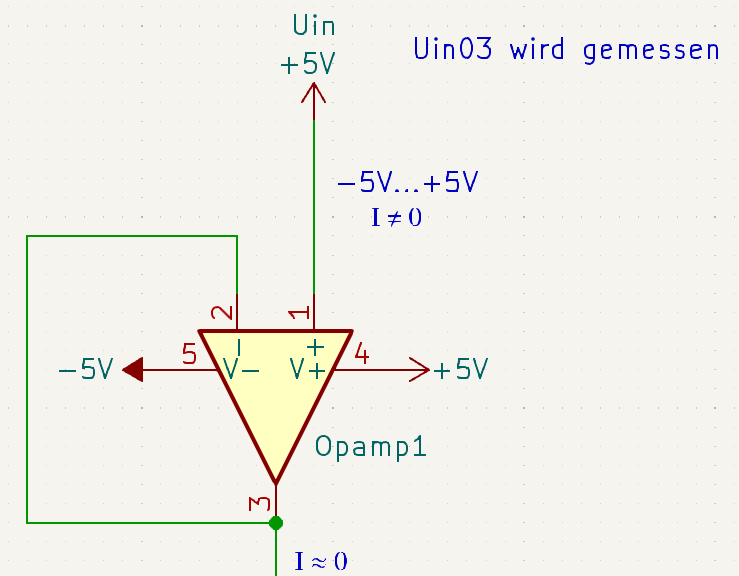
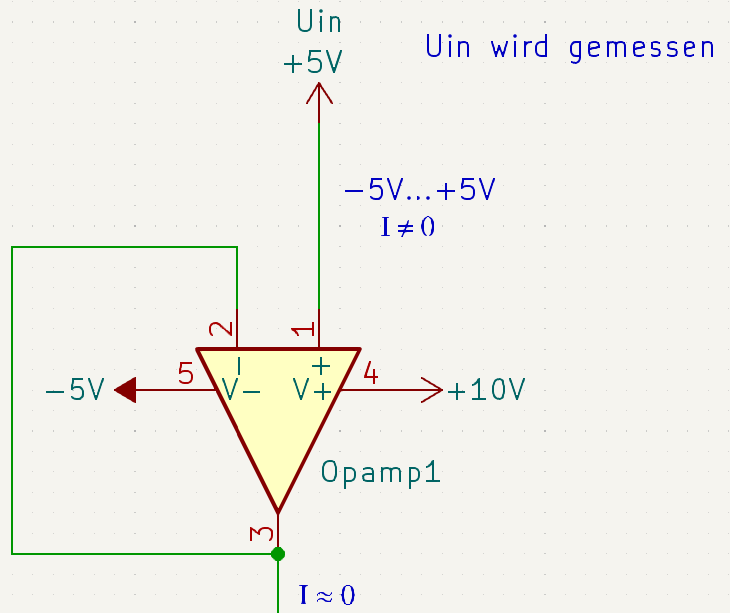
Kapitel 2,3 grob fertig, Anhang besser, Kapitel 4 fertig fast

Changed region(s): [[0.0, 0.0, 0.7233, 1.0], [0.5726, 0.0625, 0.9945, 0.125]]

diff --git a/sections/3-InputBereinigen.tex b/sections/3-InputBereinigen.tex
@@ -5,18 +5,18 @@
 %% also reasoning for choosing those specific
 %% values of resistor, power supply, etc.
 Der GPIO Pin aus \ref{Mikrocontroller}, an dem die Spannung mithilfe eines Mikrocontrollers gemessen wird,
-kann nur Spannung im Bereich $[0, 3.6]V$ messen.
-Das Oszilloskop soll allerdings einen größeren Spannungsbereich $[-15, 15]V$ messen können.
-Folglich muss man diese Eingangsspannung für den GPIO Pin bereinigen.
+kann nur Spannung im Bereich $[0, 3.3]V$ messen.
+Das Oszilloskop soll allerdings einen größeren Spannungsbereich $[-5, 5]V$ messen können.
+Daher wird nun diese Eingangsspannung für den GPIO Pin bereinigt.
 
 \subsection{Unbelastete Eingangsspannung}
 \label{Unbelastete Eingangsspannung}
-Damit der Stromkreis, der gemessen wird, nicht belastet wird, wird ein Opamp mit hoher Eingangsimpedanz
-und mit Verstärkungsfaktor $1$ benutzt.
-Der Schaltplan sieht folgendermaßen aus:
+Der Stromkreis, der gemessen wird, soll nicht belastet werden, daher wird ein Opamp mit
+hoher Eingangsimpedanz und einem Verstärkungsfaktor von $1$ benutzt.
+Dies wird durch eine Rückkopplung des Ausgangs an den invertierten Eingang des Opamps erreicht
 \begin{figure}[h]
 	\centering
-	\includegraphics[width=\textwidth]{images/unbelastet2\_opamp1.png}
+	\includegraphics[width=0.5\textwidth]{images/unbelastet2\_opamp1.png}
 	\caption{Schaltplan um den Eingangsstrom nicht zu belasten}
 \end{figure}
 
@@ -24,5 +24,48 @@ Der Schaltplan sieht folgendermaßen aus:
 \subsection{Addition einer Offset-Spannung}
 \label{Addition einer Offset-Spannung}
 
+Nun gilt es den Spannungsbereich von $[-5, 5]V$ auf $[0, 10]V$ zu legen, um die negative Spannung
+"`zu eliminieren"'. Dazu wird eine Offset-Spannung $U_{offset}$, die aus einer $3.7V$ Batterie stammt
+und mithilfe des Stepup Converter auf $5V$ gebracht wird, dazu addiert.
+Dies geschieht mit einem Nicht-invertierten Summierverstärkers, also ein Opamp der extern mit
+Spannungsteilern beschalten ist. 
+Der Opamp funktioniert, solange die Ausgangsspannung innerhalb des Bereichs der Versorgungsspannung,
+also $[-5, 10]V$, liegt. Für die maximale Eingangsspannung gilt $\max(U_{in}) + U_{offset} = 5V + 5V = 10V$
+und für die minimale gilt $\min(U_{in}) + U_{offset} = -5V + 5V = 0V$, der Opamp funktioniert also für
+die definierte Eingangs- und Offsetspannung.
+\newline
+Der Spannungsteiler $(R_1, R_2)$ teilt die Spannungen $U_{in}$ und $U_{offset}$ zu einer
+Spannung $U_{R_1, R_2} = \frac{U_{in} + U_{offset}}{2}$, welche in den Nicht-invertierten Eingang
+von \textit{Opamp2} kommt. \newline
+Es gilt, laut \cite{Opamp_adder}, für die Ausgangsspannung $U_3$ des Opamps:
+\begin{align*}
+U_3 &= (U_{in} \cdot \frac{R_2}{R_1 + R_2} + U_{offset} \cdot \frac{R_1}{R_1 + R_2}) \cdot(1 + \frac{R_4}{R_3}) \\
+	&= (U_{in} \cdot \frac{1}{2} + U_{offset} \cdot \frac{1}{2}) \cdot 2 \\
+	&= U_{in} + U_{offset}
+\end{align*}
+
+\begin{figure}[h!]
+	\centering
+	\includegraphics[width=0.5\textwidth]{images/schematic\_adder.png}
+	\caption{Addition von Eingangsspannung $U_{in}$ und Offsetspannung $U_{offset}$}
+\end{figure}
+
 \subsection{Spannungsteiler}
 \label{Spannungsteiler}
+
+Zuletzt wird die Spannung $U_3$, welche aus \textit{Opamp2} gegeben wird, geteilt, sodass
+sie im Bereich $[0, 3.3]V$ für den GPIO Pin liegt.
+Der Spannungsteiler $(R_5, R_6)$ teilt dabei $U_3$ zu
+$U_{GPIO} = \frac{U_3 \cdot R_6}{R_5 + R_6} = U_3 \cdot \frac{100 \Omega}{330 \Omega}$. \newline
+Dadurch ergibt sich ein Spannungsbereich für $U_{GPIO}$ von
+$[0, 10 \cdot \frac{100}{330}]V = [0, 3.3]V$.
+\begin{figure}[h!]
+	\centering
+	\includegraphics[width=0.5\textwidth]{images/schematic_spannungsteiler.png}
+	\caption{Spannungsteiler zu $U_{GPIO}$}
+\end{figure}
+\newline
+Die bereinigte Spannung $U_{GPIO}$ wird nun an den GPIO Pin des Mikrocontrollers angeschlossen.
+
+
+

diff --git a/sections/2-Vorraussetzungen.tex b/sections/2-Vorraussetzungen.tex
@@ -6,17 +6,15 @@
 
 \subsection{Geräte}
 
-
-
-
-\subsection{Zusammenspiel}
-
-Alle Geräte zusammen als Schaltplan ist in \nameref{Schematic_all} im Anhang zu finden.
-
-
-Oszilloskop Eingang ist $U_{in}$ und der Ground $0$. \newline
-Für die Messung, muss das Oszilloskop zur gemessenen Spannung parallel geschalten werden,
-damit die Spannung am Oszilloskop die gleiche ist, wie die am gemessenen Stromkreis.
+Das Herzstück des Oszilloskops bildet ein Mikrocontroller, dieser ist in \ref{Mikrocontroller} näher
+erläutert.
+Der Mikrocontroller kann von sich aus nur Spannungen im Bereich $[0, 3.3]V$ messen.
+Damit das Oszilloskop aber einen etwas größeren Spannungsbereich messen kann, werden außerdem
+zwei Opamps mit einem Eingangsspannungsbereich von $16V$, beispielsweise der \textit{TS912IN},
+benötigt und vor den Mikrocontroller geschalten \cite{Opamp_Datasheet}.
+Ferner werden einige Widerstände benötigt, die als Spannungsteiler fungieren.
+Der gesamte Schaltplan ist unter \ref{Gesamte_Schematic} im Anhang zu finden.
+Der Oszilloskop Messeingang wird $U_{in}$ und Ground $0$ genannt.
 
 \subsubsection{Idee}
 Das Oszilloskop besteht im groben aus zwei Bereichen.
@@ -24,26 +22,25 @@ Zum einen wird die Eingangsspannung bereinigt, erläutert in \ref{Eingangsspannu
 damit sie dem Spannungsbereich am GPIO Pin genügt.
 Zum anderen übernimmt ein Mikrocontroller, in \ref{Mikrocontroller} beschrieben,
 die tatsächliche Messung und Darstellung der Spannungswerte. \newline
-Die Eingangsspannung $U_{in}$ liegt im Intervall $[-15, 15] V$,
-der GPIO Pin des Mikrocontrollers erlaubt allerdings nur $[0, 3.6] V$. \newline
+Die Eingangsspannung $U_{in}$ liegt im Intervall $[-5, 5] V$,
+der GPIO Pin des Mikrocontrollers erlaubt allerdings nur $[0, 3.3] V$. \newline
 Folglich muss die Eingangsspannung dahingehend bereinigt werden.
 \newline \newline
 Hierfür bringen wir die Eingangsspannung erstmal in den positiven Bereich, indem wir
-eine Offset Spannung $U_{offset} = 15V$, mithilfe eines Nicht-invertierten Summierverstärkers,
+eine Offset Spannung $U_{offset} = 5V$, mithilfe eines Nicht-invertierten Summierverstärkers,
 erläutert in \ref{Addition einer Offset-Spannung}, dazu addieren. \newline
-Der Spannungsbereich ändert sich dadurch zu $[0, 30] V$.
+Der Spannungsbereich ändert sich dadurch zu $[0, 10] V$.
 Dieser muss nun lediglich, mithilfe eines Spannungsteilers, siehe \ref{Spannungsteiler},
-zu $[0, 3.6] V$ aufgeteilt werden.
-Damit der gemessene Stromkreis durch das Oszilloskop nicht belastet wird,
+zu $[0, 3.3] V$ aufgeteilt werden.
+Damit der gemessene Stromkreis durch das Oszilloskop nicht belastet und verändert wird,
 muss noch ein Bauteil mit einer hohen Eingangsimpedanz, erläutert in \ref{Unbelastete Eingangsspannung},
 vor das ganze Netzwerk geschalten werden.
 
 
 \subsubsection{Stromversorgung}
 Der Mikrocontroller wird über Micro-USB mit $5V$ versorgt.
-Die beiden Opamps werden durch eine Batterie mithilfe von Stepup Convertern versorgt.
-
-Später werden die einzelnen Schritte ausführlicher erläutert und begründet.
+Die beiden Opamps bekommen durch eine Batterie und mithilfe von den Stepup Convertern \textit{MT3608}
+eine Versorgungsspannung von $V^{+}_{CC} = 10V$ und $V^{-}_{CC} = -5V$.
 
 
 

diff --git a/Oszilloskop.tex b/Oszilloskop.tex
@@ -1,5 +1,4 @@
 \documentclass[a4paper,11pt,titlepage]{article}
-%\documentclass[a4paper,11pt,smallheadings,headsepline,titlepage,liststotoc,idxtotoc,bibtotoc,bibliography=totocnumbered]{scrartcl}
 \usepackage[ngerman]{babel}
 \usepackage{hyperref}
 \usepackage{amsmath}
@@ -9,7 +8,12 @@
 \usepackage[nottoc]{tocbibind} % for adding Bibliography to table of contents
 \usepackage{nameref}
 \usepackage{siunitx}
+\usepackage{enumitem}
+\usepackage{caption}
+\usepackage{adjustbox}
 
+% Seitenränder
+\usepackage[paper=a4paper,left=30mm,right=30mm,top=25mm,bottom=20mm]{geometry}
 \usepackage[explicit]{titlesec}
 %\usepackage[explicit]{titlesec}
 % Raised Rule Command:
@@ -17,8 +21,12 @@
 % Arg 2 - Thickness of the rule
 \newcommand{\raisedrulefill}[2][0ex]{\leaders\hbox{\rule[#1]{1pt}{#2}}\hfill}
 % hline next to section title
-\titleformat{\section}{\Large\bfseries}{\thesection }{0em}
-{\hspace{0.5em}#1\,\raisedrulefill[0.4ex]{2pt}}
+\titleformat{\section}{\Large\bfseries\sffamily}{\thesection}{0.5em}
+{#1\,\raisedrulefill[0.4ex]{2pt}}
+% subsection change font and make bold
+\titleformat{\subsection}{\large\bfseries\sffamily}{\thesubsection}{0.5em}{#1}
+% subsubsection change font and make bold
+\titleformat{\subsubsection}{\bfseries\sffamily}{\thesubsubsection}{0.5em}{#1}
 
 %opening
 %\title{Oszilloskop mittels Mikrocontroller}
@@ -29,45 +37,6 @@
 
 \include{sections/0-Titelseite.tex}
 
-% title page
-%\begin{titlepage}
-%	\begin{center}
-%    \vspace*{1cm}
-%
-%	% description
-%	\Large
-%    Seminararbeit im Bachelor-Studiengang \\
-%	Informatik
-%	\vspace{1cm}
-%
-%
-%	% title
-%	\huge
-%    \textbf{Oszilloskop mittels Mikrocontroller}
-%
-%    %\vspace{0.5cm}
-%    %Thesis Subtitle
-%
-%    \vspace{2.5cm}
-%
-%	%author
-%	\LARGE
-%   \textbf{Len-Marvin Adler, Deniz}
-%
-%    \vfill
-%
-%    %\includegraphics[width=0.4\textwidth]{university}
-%
-%	Betreuer: Prof. Dr. Thomas Breuer \\
-%	Eingereicht am: \today
-%
-%   \end{center}
-%\end{titlepage}
-
-
-%\maketitle
-%\thispagestyle{empty}
-%\clearpage
 \tableofcontents
 \thispagestyle{empty}
 \clearpage

diff --git a/sections/4-Mikrocontroller.tex b/sections/4-Mikrocontroller.tex
@@ -79,7 +79,7 @@ und Spannungsteiler $(R_5, R_6)$ als $U_{vorST}$ angegeben.
 \newline \newline
 Die gemessene Spannung lässt sich wie folgt ausrechnen: \newline
 Sei $U_{GPIO}$ die gemessene Spannung an \textit{PA4}, $Hex \in [0, 4095]$ der zugewiesene Wert im IDR
-und $3V$ die maximale Spannung, die das Netzwerk aus \nameref{Schematic_all} an den \textit{PA4} gibt,
+und $3V$ die maximale Spannung, die das Netzwerk aus \ref{Gesamte_Schematic} an den \textit{PA4} gibt,
 dann gilt
 $$
 	U_{GPIO} = \frac{Hex \cdot 3V}{4095}
@@ -92,11 +92,11 @@ Es gilt nun, diese Bereinigung Schritt für Schritt in der Software wieder zurü
 Der Spannungsteiler aus \ref{Spannungsteiler} teilt $U_{vorST}$
 zu $U_{GPIO}$, also gilt laut Spannungsteilerregel
 $$
-	U_{GPIO} = \frac{U_{vorST} \cdot 100 \Omega}{333 \Omega + 100 \Omega}
+	U_{GPIO} = \frac{U_{vorST} \cdot 100 \Omega}{330 \Omega + 100 \Omega}
 $$
 Daraus folgt
 $$
-	U_{vorST} = \frac{U_{GPIO} \cdot (333 \Omega + 100 \Omega)}{100 \Omega}
+	U_{vorST} = \frac{U_{GPIO} \cdot (330 \Omega + 100 \Omega)}{100 \Omega}
 $$
 \newline\newline
 Um dann die Eingangsspannung zu erhalten, muss man lediglich die Offset Spannung $U_{offset}$
@@ -115,8 +115,8 @@ Da für die Frequenz der Messung $10 \si{\kilo\hertz} > 30 \si{\hertz}$ gilt,
 misst der Mikrocontroller deutlich schneller, als er die Messwerte darstellen könnte.
 Die gemessenen Werte müssen dementsprechend zumindest temporär, bis zur Darstellung auf dem Display,
 in einer Datenstruktur, z.B. einem Array, zwischengespeichert werden, siehe \cite{Oscilloscope_Code}.
-Sobald das Array gefüllt wurde, wird es ausgegeben.
-Auf dem gesamten Display werden also ca. 800 gemessene Werte, ein Wert pro Pixel auf der Zeitachse,
+Sobald das Array gefüllt wurde, wird es ausgegeben. \newline
+Auf dem gesamten Display werden 800 gemessene Werte, also ein Wert pro Pixel auf der Zeitachse,
 dargestellt. \newline
 In der Zeit vom gefüllten Array bis zur
 vollständigen Ausgabe ZEIT MESSEN UND HIERREIN SCHREIBEN wird das Array weder geleert noch überschrieben,

diff --git a/sections/1-Einleitung.tex b/sections/1-Einleitung.tex
@@ -1,8 +1,8 @@
 \section{Einleitung}
 
 Ein Oszilloskop ist ein Messgerät, dass in seiner Grundfunktion Spannungen
-über einen Zeitverlauf lang messen und darstellen kann. \newline
-Diese Darstellung erfolgt auf einem Display \cite{KnowUrOscilloscope}. \newline
+über einen Zeitverlauf lang messen und darstellen kann.
+Diese Darstellung erfolgt auf einem Display \cite{KnowUrOscilloscope}.
 Komplexere Oszilloskope können häufig auch Messwerte persistent speichern oder die Skalierung der Achsen
 ändern. Wegen letzterem lässt sich ein großer Umfang von Spannungswerten messen.
 Durch diese Funktionen ist das Oszilloskop ein oft- und vielseitig verwendetes Messgerät

diff --git a/sections/9-Anhang.tex b/sections/9-Anhang.tex
@@ -3,12 +3,12 @@
 \label{Anhang}
 
 % list of all attachments
-\begin{enumerate}
+\begin{enumerate}[label=\textbf{A.\arabic*}]
 	\item
-	\label{Schematic_all}
-		\begin{figure}[h!]
+		\label{Gesamte_Schematic}
+		\begin{minipage}[]{\linewidth}
 			\centering
-			\includegraphics[width=\textwidth, scale=0.1]{images/schematic_opamps3.png}
-			\caption{Schematischer Aufbau des Oszilloskops}
-		\end{figure}
+			\includegraphics[width=\textwidth, scale=0.1]{images/schematic_opamps4.png}
+			\captionof{figure}{Schematischer Aufbau des Oszilloskops}
+		\end{minipage}
 \end{enumerate}

diff --git a/sections/0-Titelseite.tex b/sections/0-Titelseite.tex
@@ -19,7 +19,7 @@
  \vspace{0.10\textheight}\\
  \begin{Huge} \textbf{Oszilloskop} \end{Huge}\\
  \vspace{1em}
- \begin{Large}Oszilloskop mithilfe eines Mikrocontrollers bauen\end{Large}
+ \begin{Large}Ein Oszilloskop mithilfe eines Mikrocontrollers bauen\end{Large}
 
  \vspace{2em}
  \begin{Large}\textbf{von} \end{Large}\\

diff --git a/sections/5-BeispielNutzung.tex b/sections/5-BeispielNutzung.tex
@@ -6,3 +6,6 @@
 Example
 
 \subsection{Schwingkreis}
+
+Für die Messung, muss das Oszilloskop zur gemessenen Spannung parallel geschalten werden,
+damit die Spannung am Oszilloskop die gleiche ist, wie die am gemessenen Stromkreis.
